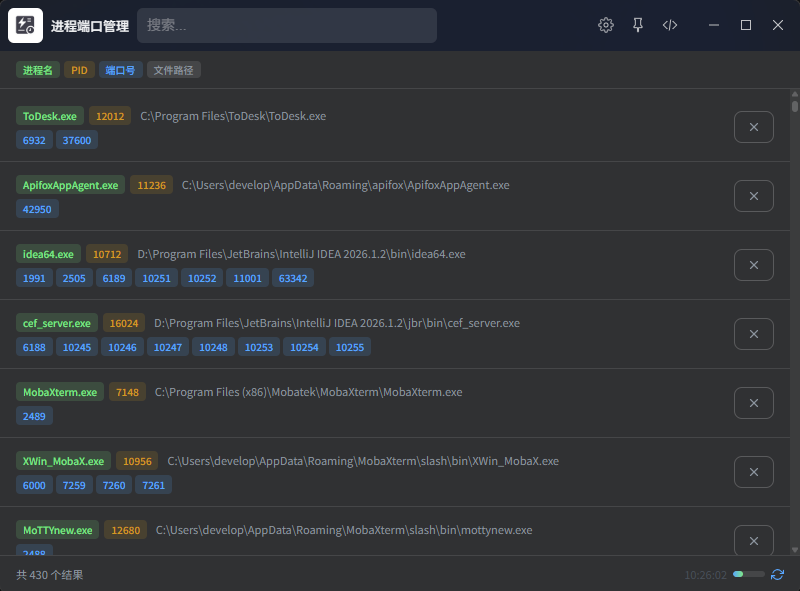
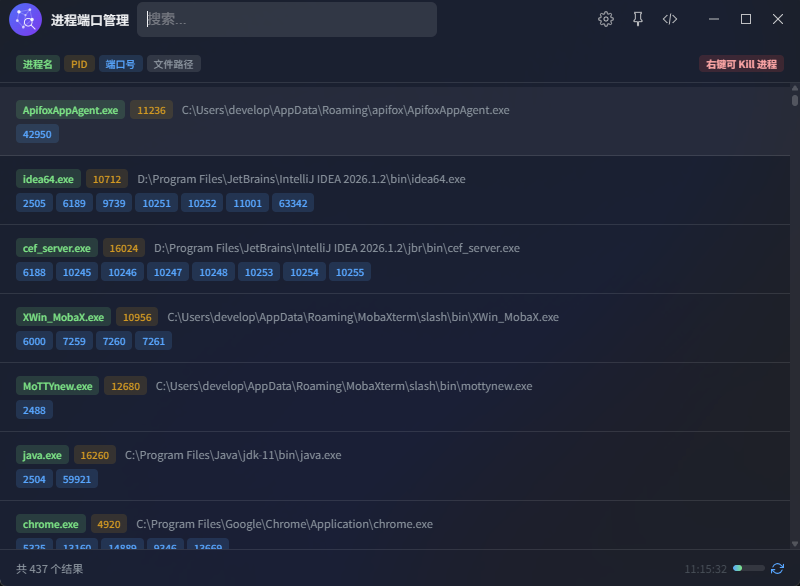
optimize: 优化界面和文档

diff --git a/src/main.css b/src/main.css
@@ -4,14 +4,11 @@ html, body {
 }
 
 @media (prefers-color-scheme: light) {
-  body {
-    background-color: #f4f4f4;
-  }
+
 }
 
 @media (prefers-color-scheme: dark) {
   body {
-    background-color: #303133;
     color: #fff;
   }
 }

diff --git a/README.md b/README.md
@@ -22,6 +22,16 @@
 
 ---
 
+
+## 📸 界面预览
+### 暗黑
+<img src="snapshot/image1.png" width="45%" />
+<img src="snapshot/image2.png" width="45%" />
+
+### 明亮
+<img src="snapshot/image3.png" width="45%" />
+<img src="snapshot/image4.png" width="45%" />
+
 ## ✨ 功能特性
 
 - **🔍 多维搜索** — 支持按进程名、PID、端口号、文件路径模糊搜索，一处输入全字段匹配
@@ -31,11 +41,6 @@
 - **🌙 暗色模式** — 跟随系统主题自适应
 - **🪟 Windows 原生** — 基于 `wmic` / `netstat` / `tasklist`，无第三方依赖
 
-## 📸 界面预览
-### 默认模式
-![截图](snapshot/image1.png)
-### 固定窗口模式
-![截图](snapshot/image2.png)
 
 ## 🚀 快速开始
 